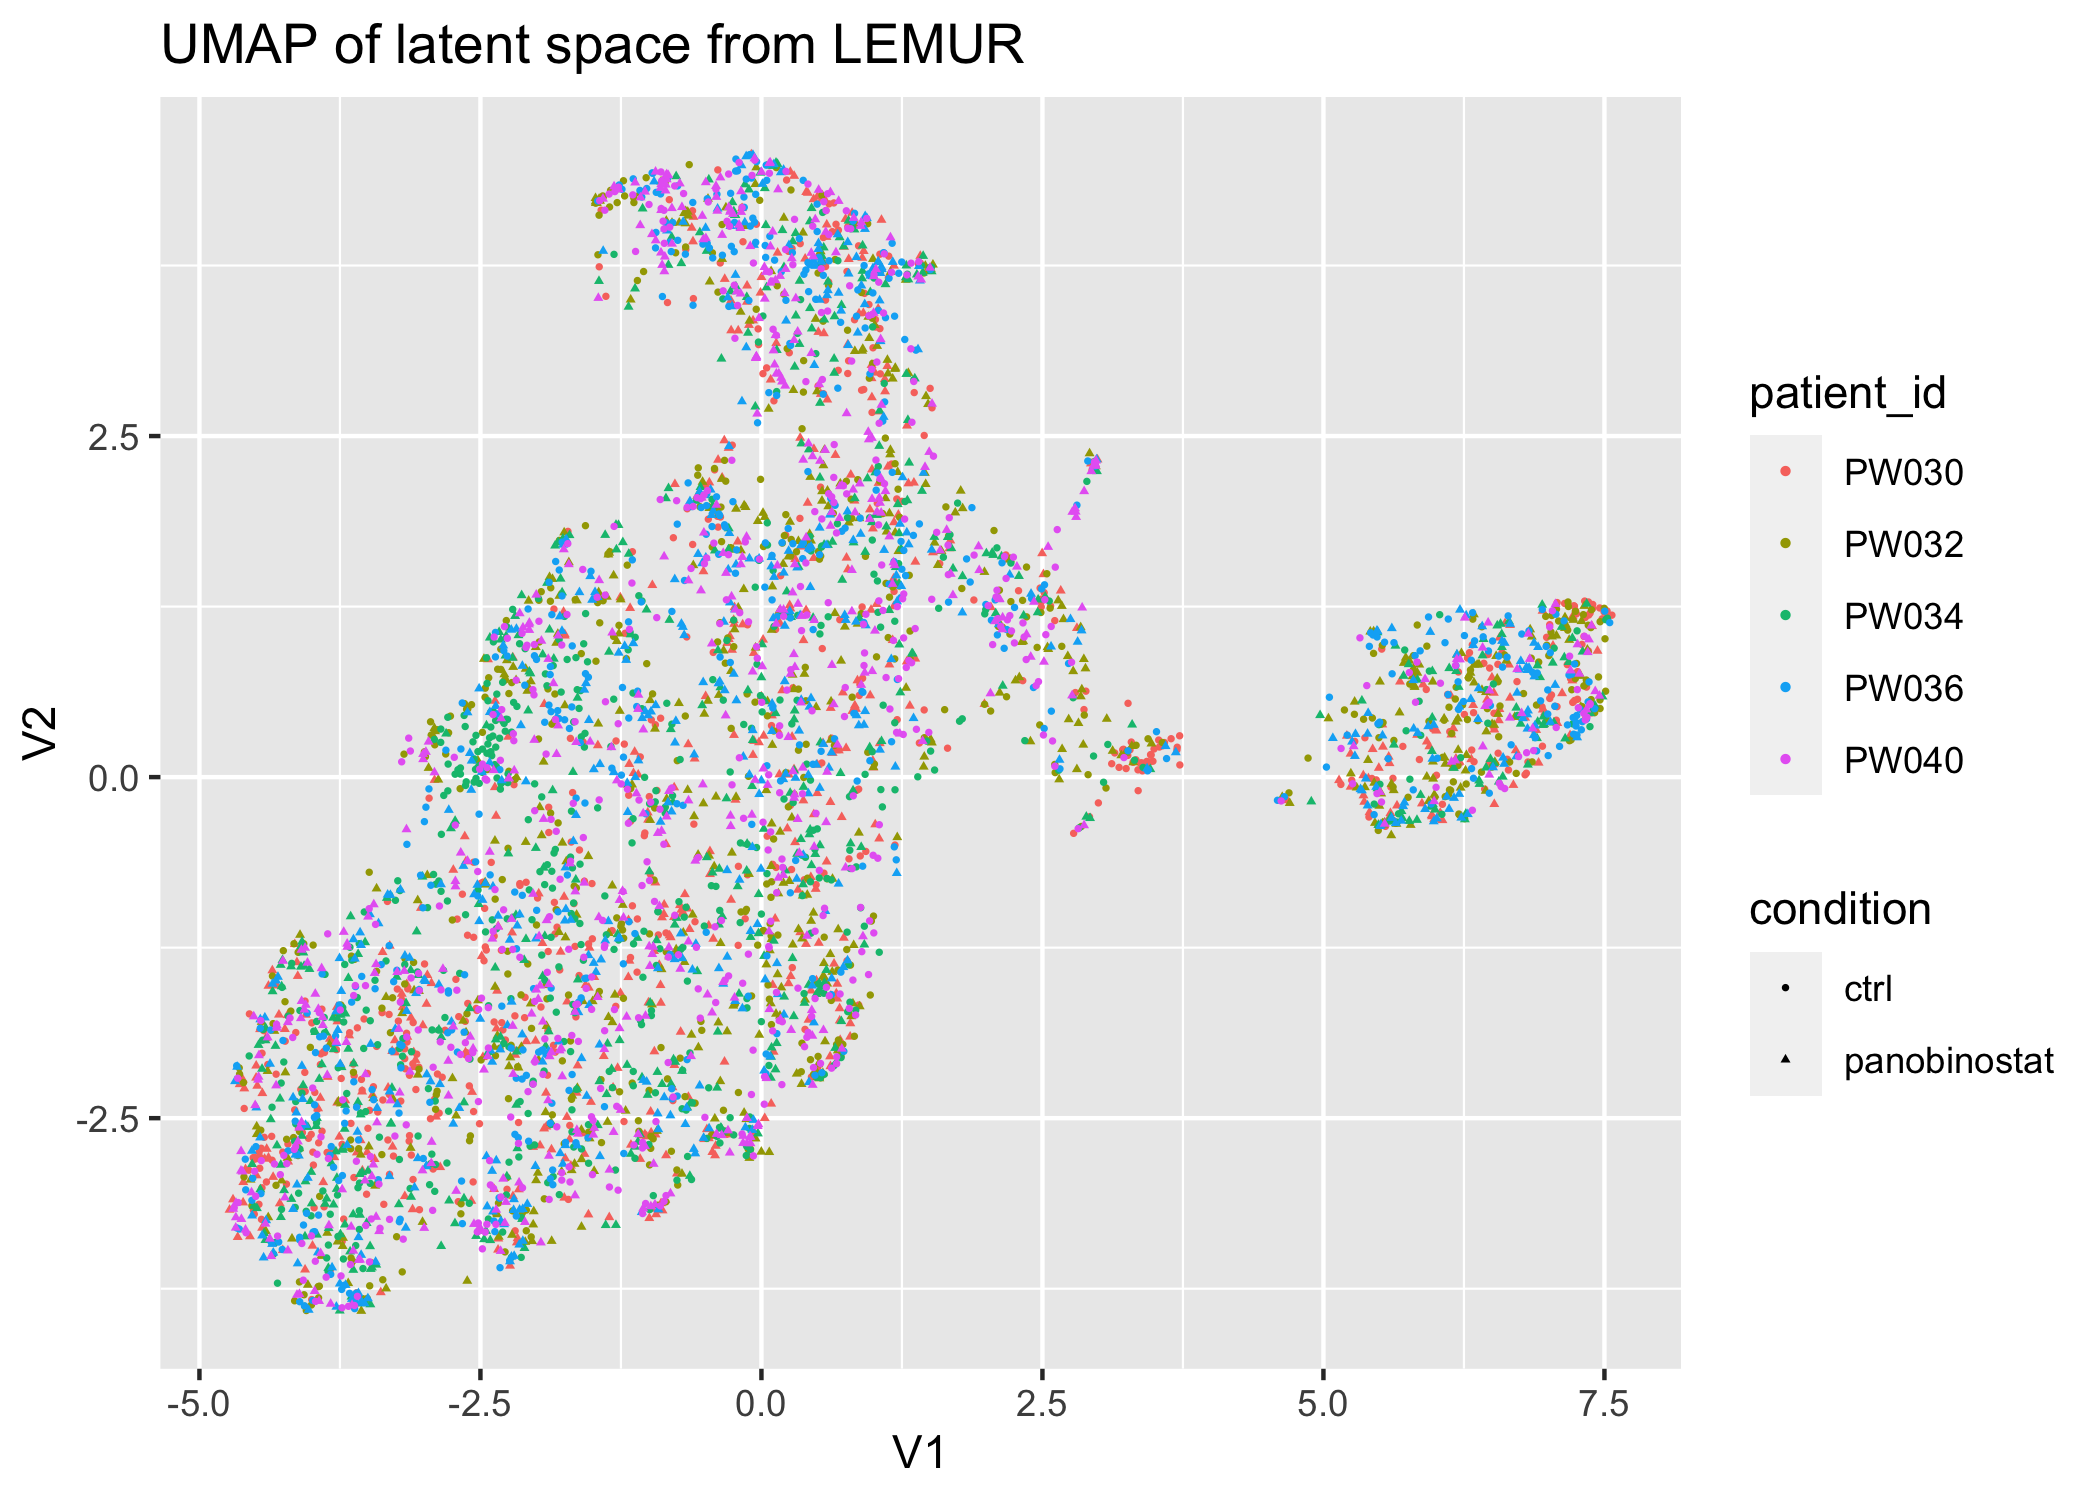
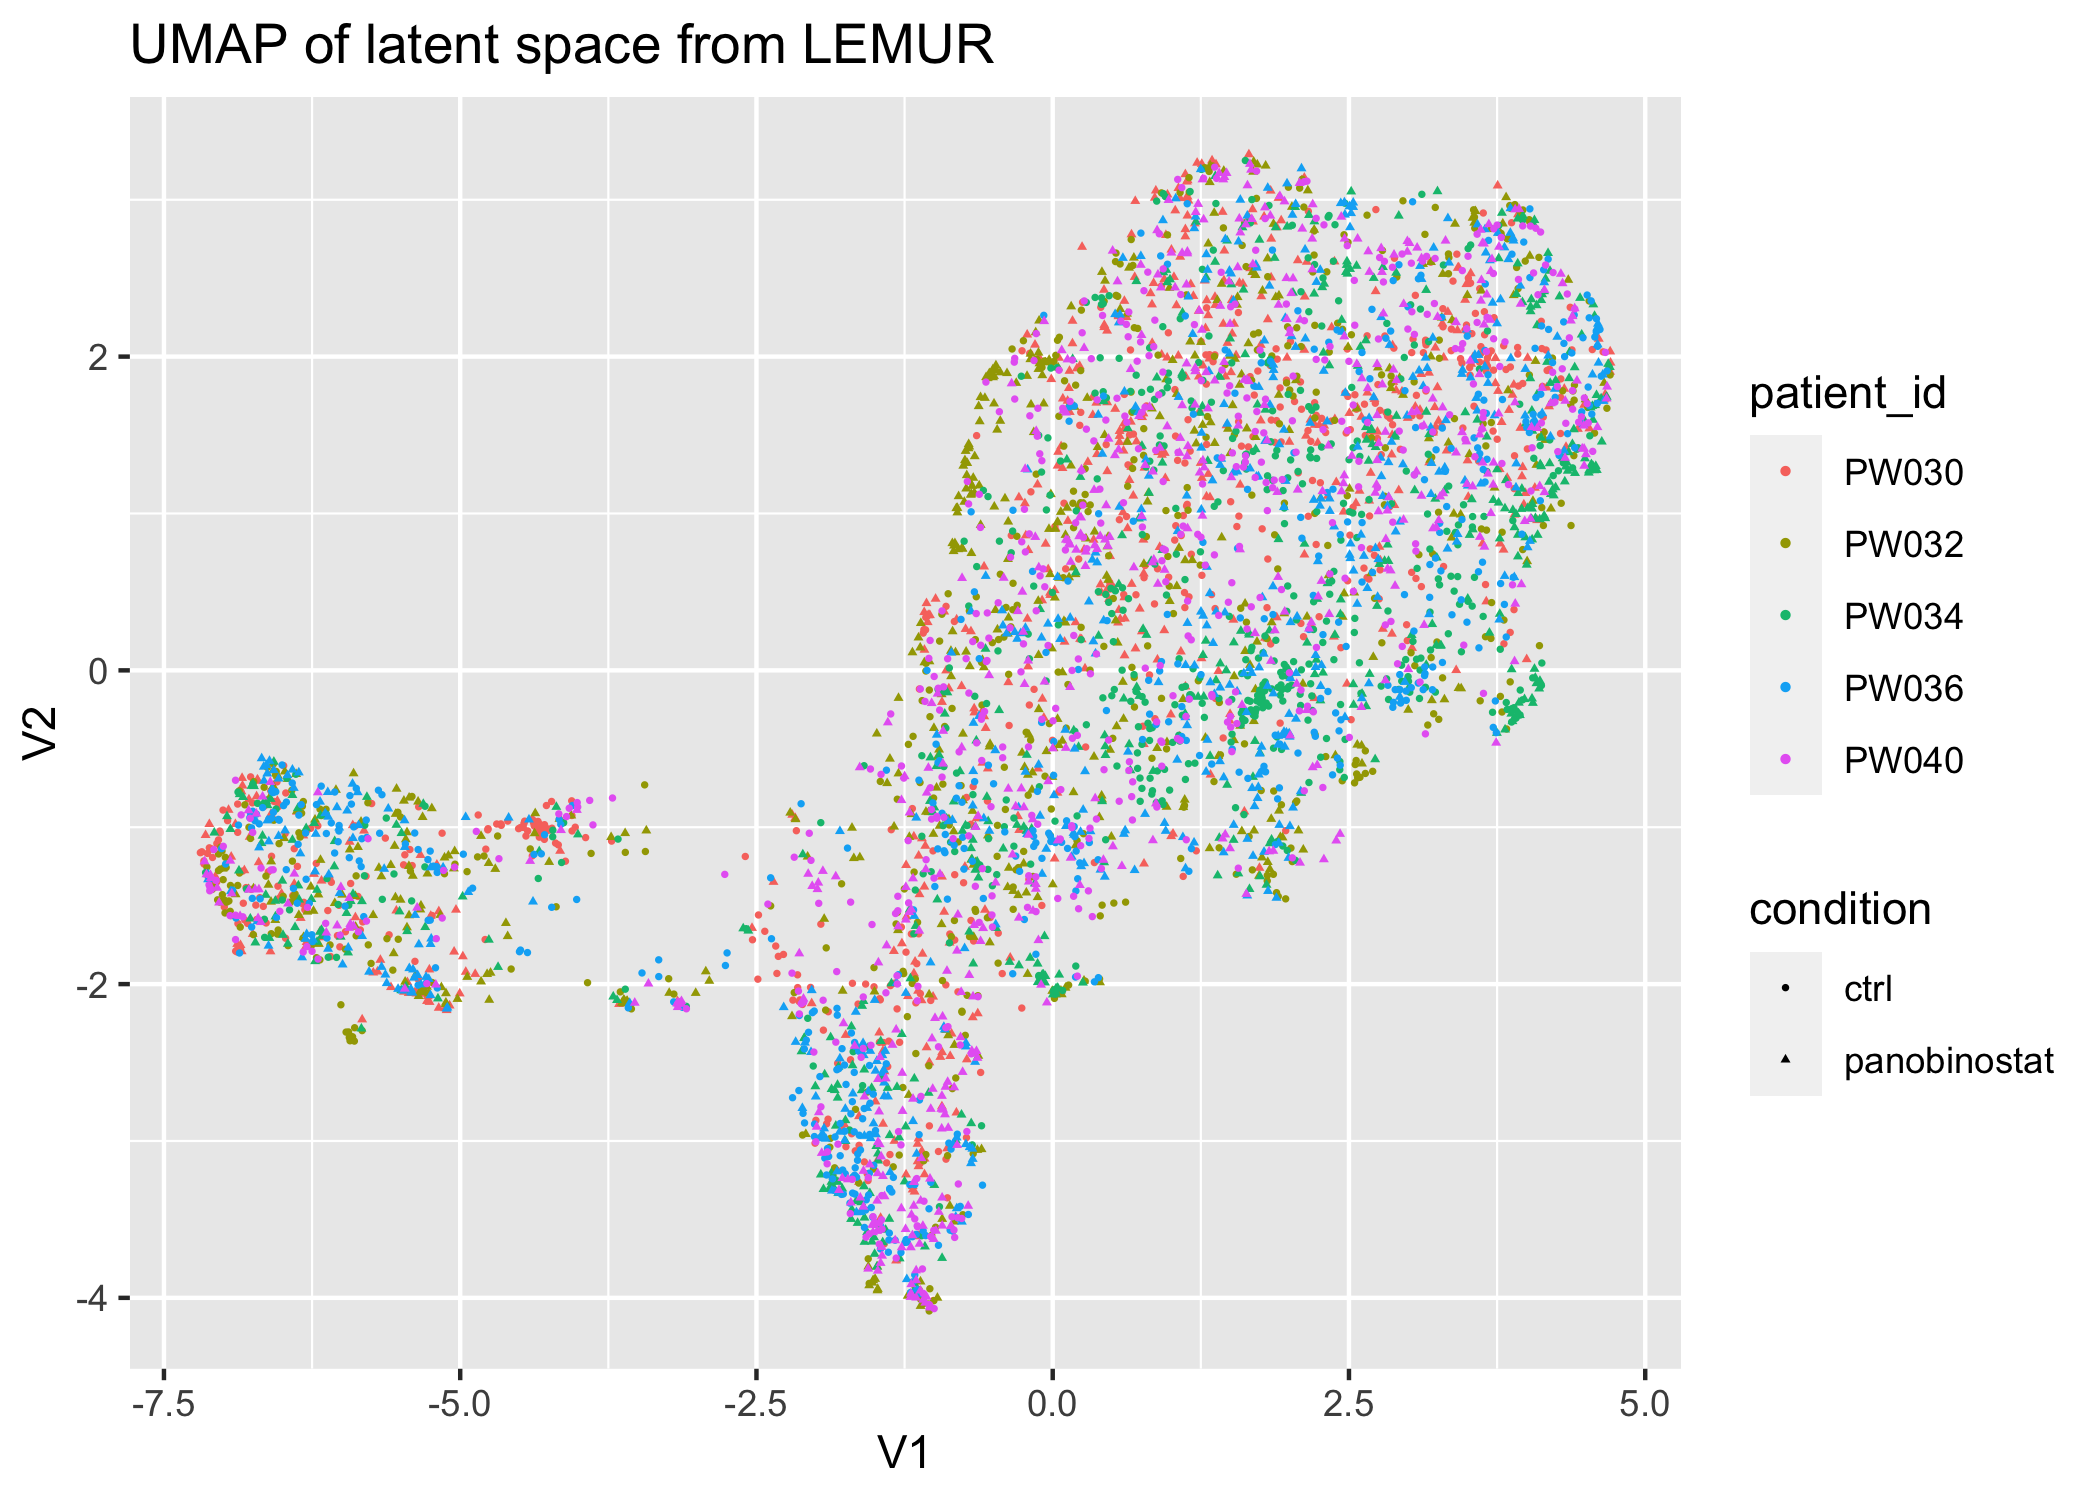
Update README

diff --git a/README.md b/README.md
@@ -16,8 +16,12 @@ with arbitrary experimental designs that can be expressed using a design
 matrix. The result is an interpretable model of the gene expression
 patterns.
 
-![Schematic of the matrix decomposition at the core of
-LEMUR](man/figures/equation_schematic.png)
+<figure>
+<img src="man/figures/equation_schematic.png"
+alt="Schematic of the matrix decomposition at the core of LEMUR" />
+<figcaption aria-hidden="true">Schematic of the matrix decomposition at
+the core of LEMUR</figcaption>
+</figure>
 
 ## Installation
 
@@ -130,14 +134,12 @@ inferring the LEMUR parameters.
 
 ``` r
 fit <- lemur(glioblastoma_example_data, design = ~ patient_id + condition, 
-             n_embedding = 15, test_fraction = 0.4, verbose = FALSE)
+             n_embedding = 15, test_fraction = 0.2, verbose = FALSE)
 
-# The alignment step is optional and there are several approaches to choose the alignment.
-# The ridge_penalty regularizes the alignment
-## fit <- align_by_grouping(fit, grouping = fit$colData$cell_type) # Use existing annotations (doesn't exist for this data)
-## fit <- align_by_template(fit, template = aligned_data) # Use existing alignment (doesn't exist for this data)
-## fit <- align_neighbors(fit) # Put mutual nearest neighbors close
-fit <- align_harmony(fit, ridge_penalty = 0.5) # Use maximum-diversity clustering
+# Optionally, align cell positions across conditions
+# Either with manual annotation by calling `align_by_grouping` or
+# with automatically inferred correspondences by calling `align_harmony`
+fit <- align_harmony(fit)
 #> Select cells that are considered close with 'harmony'
 
 fit
@@ -218,18 +220,18 @@ as_tibble(neighborhoods) %>%
   left_join(as_tibble(rowData(fit)), by = c("name" = "gene_id")) %>%
   dplyr::select(name, symbol, n_cells, pval, adj_pval)
 #> # A tibble: 300 × 5
-#>    name            symbol n_cells       pval adj_pval
-#>    <chr>           <chr>    <int>      <dbl>    <dbl>
-#>  1 ENSG00000187193 MT1X      4656 0.00000824  0.00247
-#>  2 ENSG00000245532 NEAT1     2935 0.0000322   0.00361
-#>  3 ENSG00000113889 KNG1      4333 0.0000423   0.00361
-#>  4 ENSG00000147588 PMP2      4681 0.0000481   0.00361
-#>  5 ENSG00000175899 A2M       4691 0.0000721   0.00433
-#>  6 ENSG00000177700 POLR2L    3558 0.000213    0.0107 
-#>  7 ENSG00000198668 CALM1     3410 0.000249    0.0107 
-#>  8 ENSG00000125148 MT2A      4474 0.000378    0.0142 
-#>  9 ENSG00000169429 CXCL8     1652 0.000650    0.0217 
-#> 10 ENSG00000069275 NUCKS1    4121 0.000782    0.0222 
+#>    name            symbol n_cells      pval adj_pval
+#>    <chr>           <chr>    <int>     <dbl>    <dbl>
+#>  1 ENSG00000147588 PMP2      3951 0.0000541   0.0127
+#>  2 ENSG00000113889 KNG1      4437 0.0000845   0.0127
+#>  3 ENSG00000187193 MT1X      1833 0.000198    0.0198
+#>  4 ENSG00000245532 NEAT1     3371 0.000387    0.0290
+#>  5 ENSG00000177700 POLR2L    3591 0.000790    0.0474
+#>  6 ENSG00000132002 DNAJB1    2841 0.00117     0.0508
+#>  7 ENSG00000156508 EEF1A1    3748 0.00168     0.0508
+#>  8 ENSG00000198668 CALM1     2692 0.00169     0.0508
+#>  9 ENSG00000125148 MT2A      3174 0.00198     0.0508
+#> 10 ENSG00000120885 CLU       3270 0.00200     0.0508
 #> # ℹ 290 more rows
 ```
 
@@ -367,20 +369,20 @@ sessionInfo()
 #>  [5] purrr_1.0.1                 readr_2.1.4                
 #>  [7] tidyr_1.3.0                 tibble_3.2.1               
 #>  [9] ggplot2_3.4.2               tidyverse_2.0.0            
-#> [11] SingleCellExperiment_1.22.0 SummarizedExperiment_1.30.1
+#> [11] SingleCellExperiment_1.22.0 SummarizedExperiment_1.30.2
 #> [13] Biobase_2.60.0              GenomicRanges_1.52.0       
 #> [15] GenomeInfoDb_1.36.0         IRanges_2.34.0             
 #> [17] S4Vectors_0.38.1            BiocGenerics_0.46.0        
-#> [19] MatrixGenerics_1.12.0       matrixStats_0.63.0         
-#> [21] lemur_0.0.19               
+#> [19] MatrixGenerics_1.12.2       matrixStats_1.0.0          
+#> [21] lemur_0.0.22               
 #> 
 #> loaded via a namespace (and not attached):
 #>  [1] gtable_0.3.3              xfun_0.39                
-#>  [3] lattice_0.21-8            tzdb_0.3.0               
+#>  [3] lattice_0.21-8            tzdb_0.4.0               
 #>  [5] vctrs_0.6.2               tools_4.3.0              
 #>  [7] bitops_1.0-7              generics_0.1.3           
 #>  [9] fansi_1.0.4               highr_0.10               
-#> [11] pkgconfig_2.0.3           Matrix_1.5-4             
+#> [11] pkgconfig_2.0.3           Matrix_1.5-4.1           
 #> [13] sparseMatrixStats_1.12.0  lifecycle_1.0.3          
 #> [15] GenomeInfoDbData_1.2.10   farver_2.1.1             
 #> [17] compiler_4.3.0            munsell_0.5.0            
@@ -388,19 +390,19 @@ sessionInfo()
 #> [21] htmltools_0.5.5           RCurl_1.98-1.12          
 #> [23] yaml_2.3.7                pillar_1.9.0             
 #> [25] crayon_1.5.2              MASS_7.3-60              
-#> [27] uwot_0.1.14               DelayedArray_0.26.2      
+#> [27] uwot_0.1.14               DelayedArray_0.26.3      
 #> [29] tidyselect_1.2.0          digest_0.6.31            
 #> [31] stringi_1.7.12            labeling_0.4.2           
 #> [33] splines_4.3.0             cowplot_1.1.1            
 #> [35] fastmap_1.1.1             grid_4.3.0               
 #> [37] colorspace_2.1-0          cli_3.6.1                
 #> [39] harmony_0.1.1             magrittr_2.0.3           
-#> [41] S4Arrays_1.0.1            utf8_1.2.3               
+#> [41] S4Arrays_1.0.4            utf8_1.2.3               
 #> [43] withr_2.5.0               DelayedMatrixStats_1.22.0
 #> [45] scales_1.2.1              timechange_0.2.0         
-#> [47] rmarkdown_2.21            XVector_0.40.0           
+#> [47] rmarkdown_2.22            XVector_0.40.0           
 #> [49] hms_1.1.3                 evaluate_0.21            
-#> [51] knitr_1.42                RcppAnnoy_0.0.20         
+#> [51] knitr_1.43                RcppAnnoy_0.0.20         
 #> [53] irlba_2.3.5.1             rlang_1.1.1              
 #> [55] isoband_0.2.7             Rcpp_1.0.10              
 #> [57] glue_1.6.2                rstudioapi_0.14          
